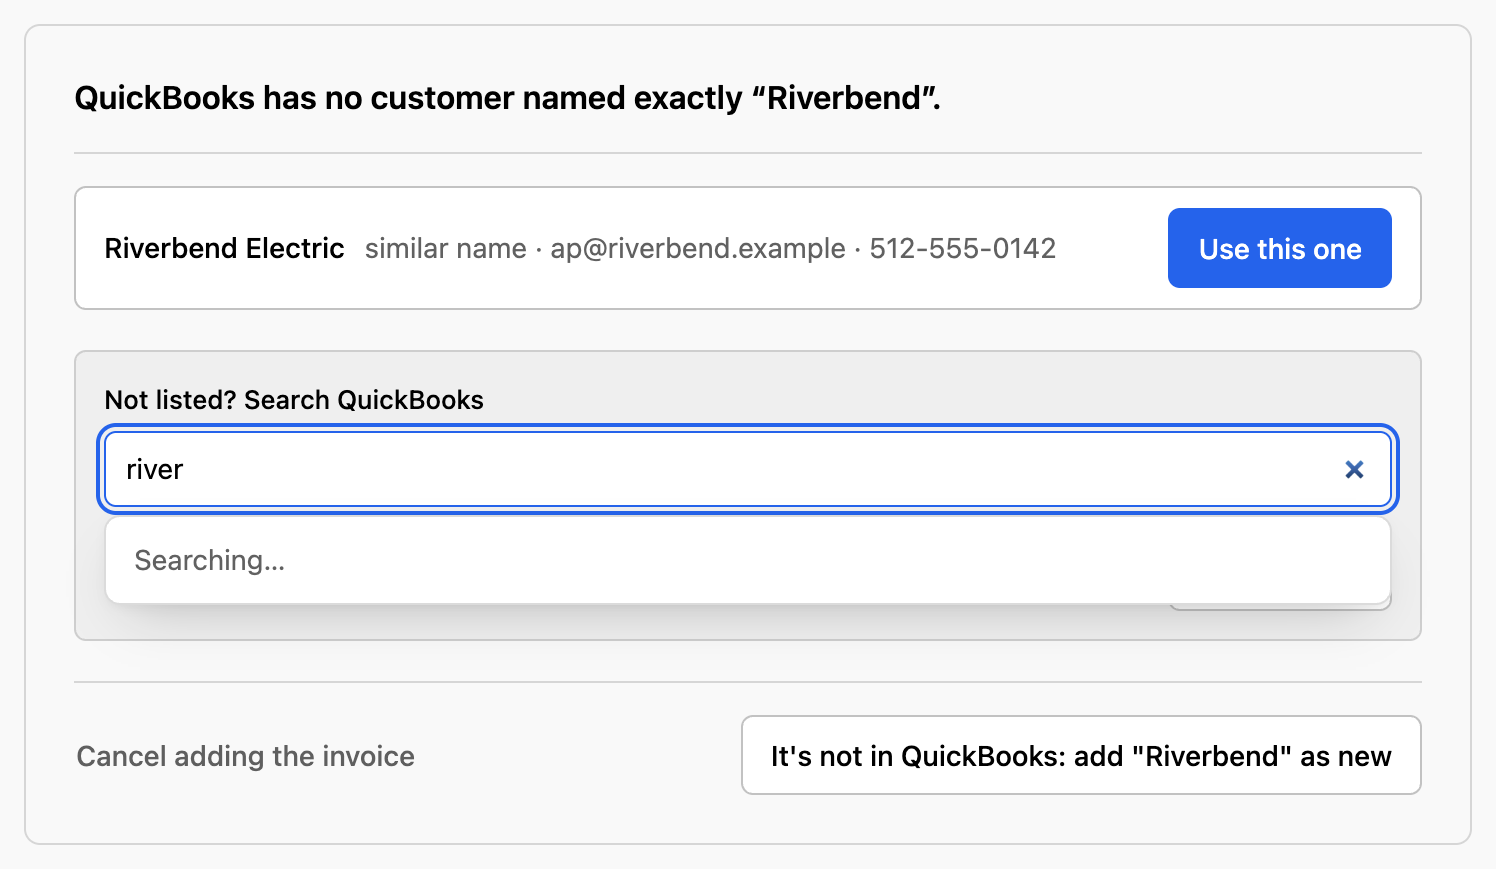
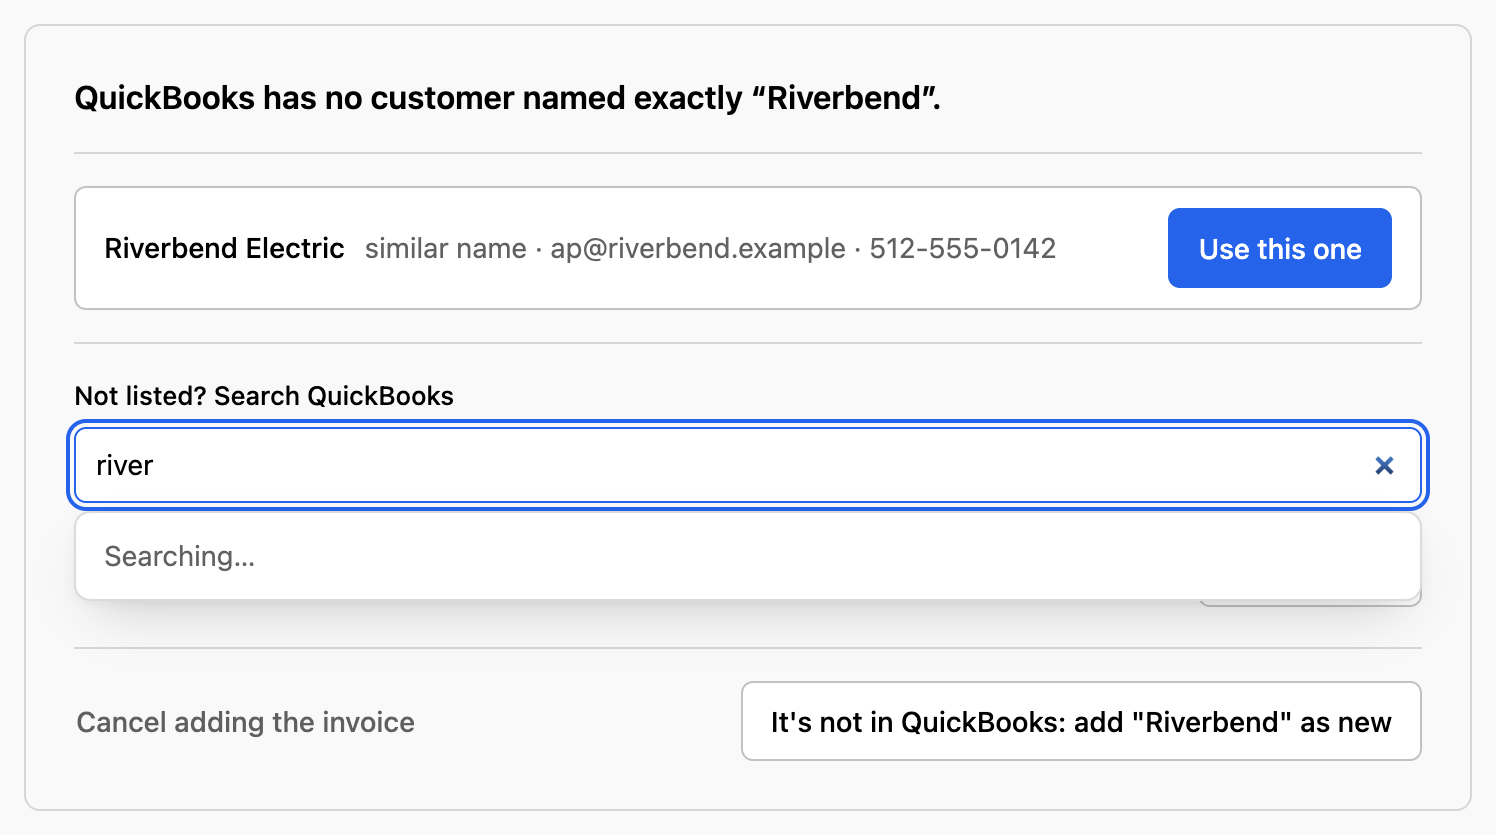
The open search is a section under a hairline, not a box inside the card

diff --git a/app/assets/stylesheets/qube_rails.css b/app/assets/stylesheets/qube_rails.css
@@ -951,12 +951,11 @@
     max-width: calc(var(--qube-form-width, 36rem) + 2 * clamp(16px, 3vw, 24px) + 2px);
   }
 
-  /* The open search: a panel of its own under the offered records */
-  :where(.qube-search-disclosure[open]) {
-    padding: 14px;
-    border: 1px solid var(--qube-border-color);
-    border-radius: var(--qube-control-radius);
-    background: var(--qube-tint-color);
+  /* The open search is a section of its own under the offered records: a hairline, not a box */
+  :where(.qube-picks + .qube-search-disclosure[open]) {
+    margin-top: 8px;
+    padding-top: 16px;
+    border-top: 1px solid var(--qube-border-color);
   }
 
   /* ---- Narrow screens: choices stack, full width */

diff --git a/CHANGELOG.md b/CHANGELOG.md
@@ -74,7 +74,8 @@ read as QuBe Sync now sends them. Run `bin/rails qube_rails:install:migrations` 
   submit, instead of a step line above the records and a row of its own; the row reads cancel …
   2 of 3, Back, Next (or the submit on the last record).
 - The question card has sections: a hairline under what it's about, another above the way out
-  (the exits' row, or a lone form's button row), and the open search is a tinted panel of its own.
+  (the exits' row, or a lone form's button row), and a third above the open search, which is a
+  section of its own under the offered records.
   A card that is one form is as wide as the form.
 - Beside full-width picks (a near match, a name clash) a form takes the full width too, so its
   submit shares the picks' and exits' right edge; the open search keeps a gap under the picks.
